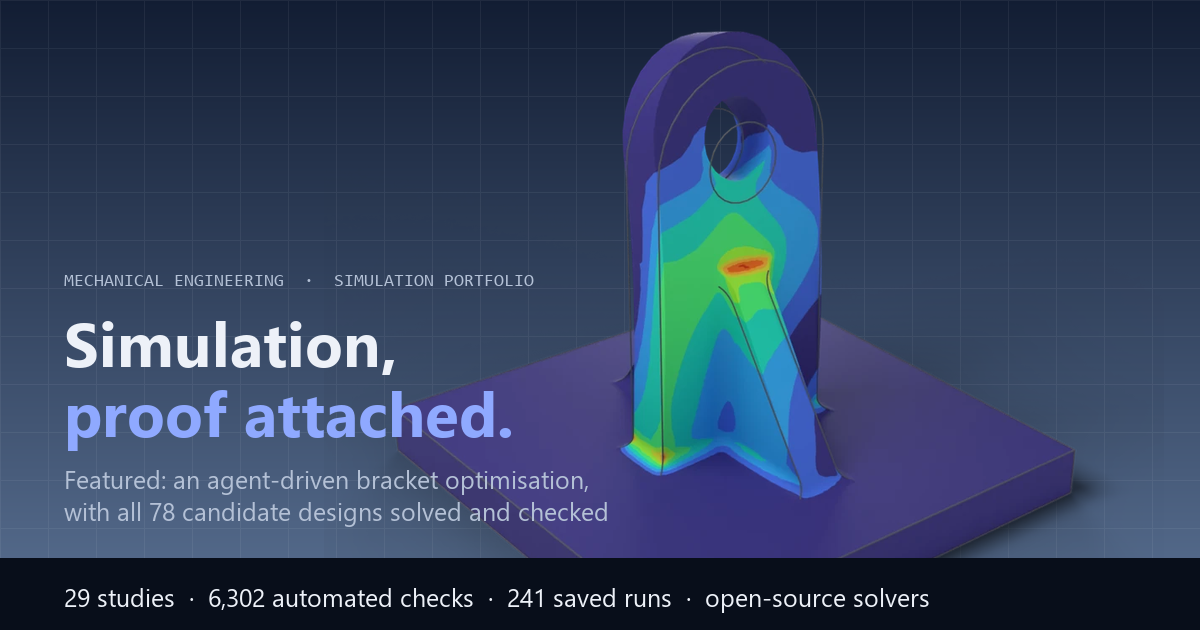
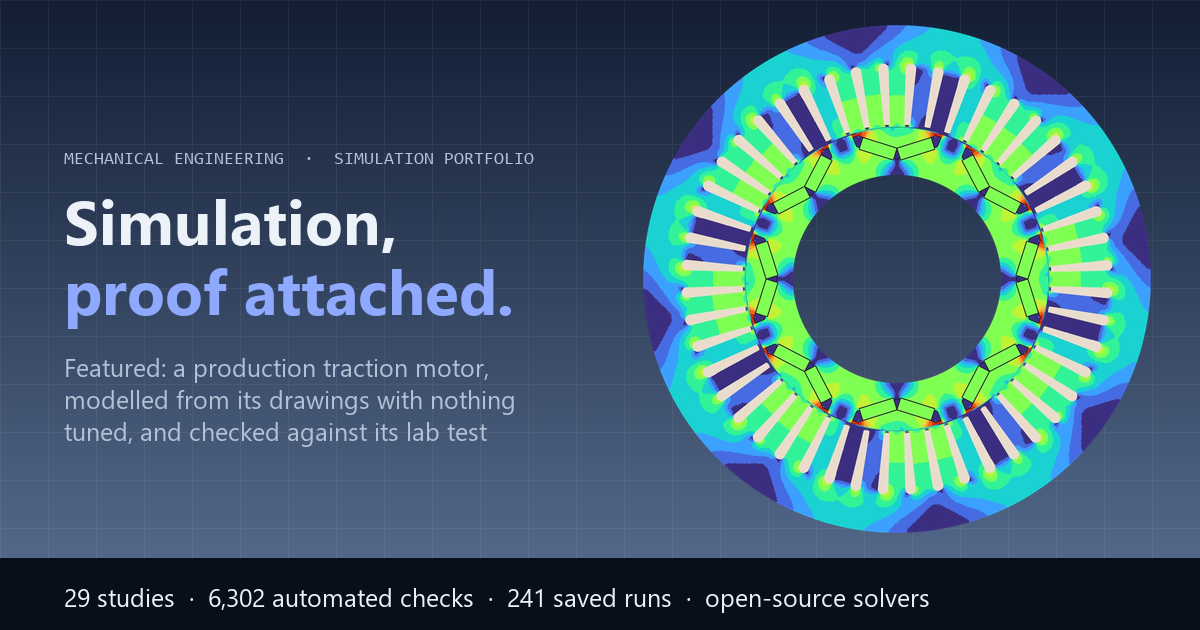
Link preview: the traction motor's field map in place of the bracket, with the headline and the live counts

diff --git a/docs/index.html b/docs/index.html
@@ -12,7 +12,7 @@
 <meta property="og:image" content="https://cptgrumpus.github.io/engineering-agent-lab/v2/og_card.png">
 <meta property="og:image:width" content="1200">
 <meta property="og:image:height" content="630">
-<meta property="og:image:alt" content="A machined clevis bracket rendered with its stress contours, beside the page headline and its counts of studies, checks and runs">
+<meta property="og:image:alt" content="The traction motor&#x27;s magnetic field, stator and rotor in cross-section, beside the page headline and its counts of studies, checks and runs">
 <meta name="twitter:card" content="summary_large_image">
 <link rel="canonical" href="https://cptgrumpus.github.io/engineering-agent-lab/">
 <meta name="theme-color" content="#0b0f15" media="(prefers-color-scheme: dark)">

diff --git a/site/make_og.py b/site/make_og.py
@@ -1,6 +1,6 @@
 """The link preview card (Open Graph image) shown when the page link is pasted into LinkedIn, email or Slack.
 
-1200 x 630, the size LinkedIn, Slack and most mail clients expect. It shows the optimised bracket render
+1200 x 630, the size LinkedIn, Slack and most mail clients expect. It shows the traction motor's field map
 on the viewer's background with the page headline and the counts from the run records, so the card
 always agrees with the page. Called by build_v2.py; writes site/v2/og_card.png.
 """
@@ -40,24 +40,25 @@ def make(facts: dict) -> Path:
         g.line([(0, y), (W, y)], fill=(237, 241, 248, 16))
     img = Image.alpha_composite(img.convert("RGBA"), grid)
 
-    part = Image.open(HERE / "v2" / "vp_bracket_opt.webp").convert("RGBA")
+    # the traction motor's magnetic field (study 20), the strongest single result: a ring on the right, the
+    # headline on the left
+    part = Image.open(HERE / "v2" / "hero_motor_field.webp").convert("RGBA")
     part = part.crop(part.getbbox())
-    # the part runs from its root (top left) down to the tip (bottom right), so it sits top right and
-    # the text takes the empty triangle below it
-    scale = 840 / part.width
-    part = part.resize((round(part.width * scale), round(part.height * scale)), Image.LANCZOS)
-    img.alpha_composite(part, (W - part.width - 36, 28))
+    side = H - 72 - 2 * 24                                # above the stats band
+    part = part.resize((side, side), Image.LANCZOS)
+    img.alpha_composite(part, (W - side - 48, 24))
 
     d = ImageDraw.Draw(img)
     mono = _font(["consola.ttf", "cour.ttf"], 18)
     title = _font(["segoeuib.ttf", "arialbd.ttf"], 62)
     body = _font(["segoeui.ttf", "arial.ttf"], 25)
     x = 64
-    d.text((x, 272), "MECHANICAL ENGINEERING  ·  SIMULATION PORTFOLIO", font=mono, fill=INK2)
-    d.text((x, 300), "Simulation,", font=title, fill=INK)
-    d.text((x, 370), "proof attached.", font=title, fill=ACCENT)
-    d.text((x, 462), "Featured: an agent-driven bracket optimisation,", font=body, fill=INK2)
-    d.text((x, 494), "with all 78 candidate designs solved and checked", font=body, fill=INK2)
+    d.text((x, 150), "MECHANICAL ENGINEERING  ·  SIMULATION PORTFOLIO", font=mono, fill=INK2)
+    d.text((x, 178), "Simulation,", font=title, fill=INK)
+    d.text((x, 248), "proof attached.", font=title, fill=ACCENT)
+    for i, line in enumerate(["Featured: a production traction motor,", "modelled from its drawings with nothing",
+                              "tuned, and checked against its lab test"]):
+        d.text((x, 350 + 32 * i), line, font=body, fill=INK2)
     stats = f"{facts.get('studies', 16)} studies  ·  {facts['checks']:,} automated checks  ·  {facts['runs']} saved runs  ·  open-source solvers"
     d.rectangle([(0, H - 72), (W, H)], fill=(8, 14, 26, 150))
     d.text((x, H - 50), stats, font=body, fill=INK)

diff --git a/site/build_v2.py b/site/build_v2.py
@@ -865,7 +865,7 @@ def home_page(facts) -> dict:
             "desc": f"{WORDS[len(CARDS)][1]} open-source simulation studies by {AUTHOR}, mechanical engineer: FEA, CFD, coupled "
                     "multiphysics and an optimisation loop, each checked against an independent reference.",
             "nav": "home", "main": main, "scripts": scripts, "og": make_og.make({**facts, "studies": len(CARDS)}),
-            "og_alt": "A machined clevis bracket rendered with its stress contours, beside the page headline and its counts of studies, checks and runs",
+            "og_alt": "The traction motor's magnetic field, stator and rotor in cross-section, beside the page headline and its counts of studies, checks and runs",
             "home": True}
 
 
